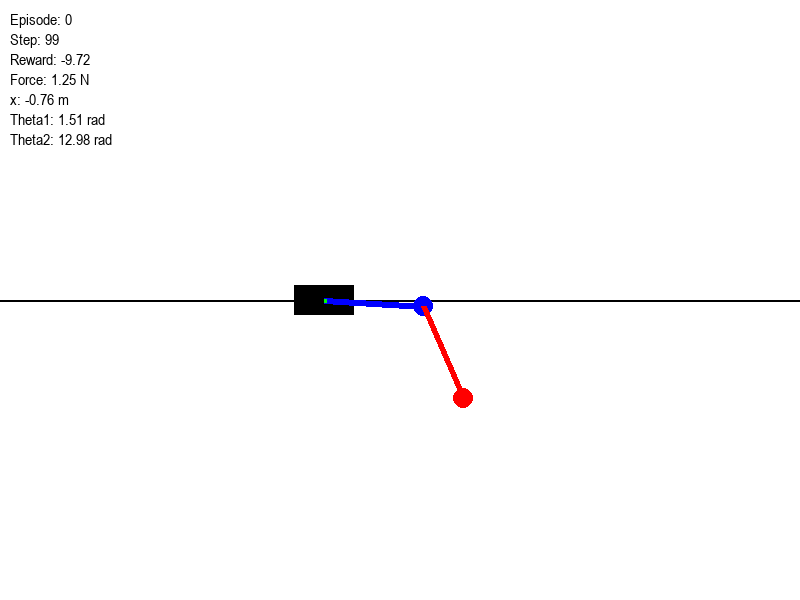
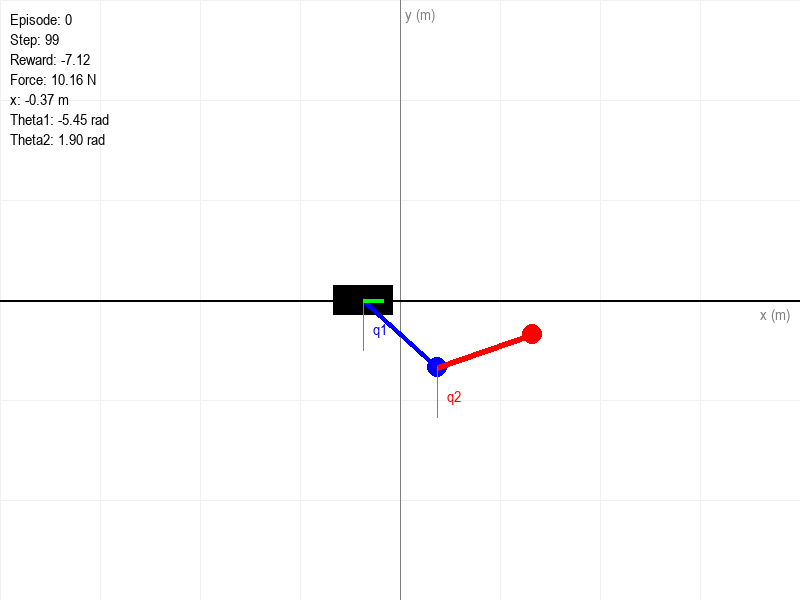
Visualizer: Add coordinate system and update screenshot

diff --git a/src/utils/visualizer.py b/src/utils/visualizer.py
@@ -52,15 +52,25 @@ class Visualizer:
         cart_x = ox + x * self.scale
         cart_y = oy
         
-        # Draw Coordinate System
+        # Draw Coordinate System (Cartesian)
         # Origin is at (ox, oy)
+        # Draw grid lines every 1 meter (scale pixels)
+        for i in range(-5, 6):
+            # Vertical lines
+            gx = int(ox + i * self.scale)
+            pygame.draw.line(self.screen, (240, 240, 240), (gx, 0), (gx, self.height), 1)
+            # Horizontal lines
+            gy = int(oy + i * self.scale)
+            pygame.draw.line(self.screen, (240, 240, 240), (0, gy), (self.width, gy), 1)
+
+        # Main Axes
         pygame.draw.line(self.screen, self.GRAY, (int(ox), 0), (int(ox), self.height), 1) # Y-axis
         pygame.draw.line(self.screen, self.GRAY, (0, int(oy)), (self.width, int(oy)), 1) # X-axis
         
         # Labels
-        x_label = self.font.render("x", True, self.GRAY)
-        y_label = self.font.render("y", True, self.GRAY)
-        self.screen.blit(x_label, (self.width - 20, int(oy) + 5))
+        x_label = self.font.render("x (m)", True, self.GRAY)
+        y_label = self.font.render("y (m)", True, self.GRAY)
+        self.screen.blit(x_label, (self.width - 40, int(oy) + 5))
         self.screen.blit(y_label, (int(ox) + 5, 5))
         
         # Draw Track
@@ -83,12 +93,26 @@ class Visualizer:
         pygame.draw.line(self.screen, self.BLUE, (int(cart_x), int(cart_y)), (int(p1_x), int(p1_y)), 6)
         pygame.draw.circle(self.screen, self.BLUE, (int(p1_x), int(p1_y)), 10)
         
+        # Visualize Theta1
+        # Vertical reference
+        pygame.draw.line(self.screen, self.GRAY, (int(cart_x), int(cart_y)), (int(cart_x), int(cart_y + 50)), 1)
+        # Arc? Pygame arc is annoying. Let's just draw a small line indicating the angle?
+        # Or just text.
+        t1_text = self.font.render(f"q1", True, self.BLUE)
+        self.screen.blit(t1_text, (int(cart_x + 10), int(cart_y + 20)))
+
         # Pendulum 2
         p2_x = p1_x + l2 * np.sin(theta2)
         p2_y = p1_y + l2 * np.cos(theta2)
         
         pygame.draw.line(self.screen, self.RED, (int(p1_x), int(p1_y)), (int(p2_x), int(p2_y)), 6)
         pygame.draw.circle(self.screen, self.RED, (int(p2_x), int(p2_y)), 10)
+
+        # Visualize Theta2
+        # Vertical reference at joint 1
+        pygame.draw.line(self.screen, self.GRAY, (int(p1_x), int(p1_y)), (int(p1_x), int(p1_y + 50)), 1)
+        t2_text = self.font.render(f"q2", True, self.RED)
+        self.screen.blit(t2_text, (int(p1_x + 10), int(p1_y + 20)))
         
         # Force Indicator
         if abs(force) > 0.1:

diff --git a/docs/training_and_learning.md b/docs/training_and_learning.md
@@ -5,10 +5,18 @@
 We model the double pendulum stabilization as a **Markov Decision Process (MDP)** defined by the tuple $(S, A, P, R, \gamma)$:
 
 *   **State Space ($S$)**: Continuous, 8-dimensional.
-    $$ s = [x, \sin\theta_1, \cos\theta_1, \sin\theta_2, \cos\theta_2, \dot{x}, \dot{\theta}_1, \dot{\theta}_2] $$
+
+    $$
+    s = [x, \sin\theta_1, \cos\theta_1, \sin\theta_2, \cos\theta_2, \dot{x}, \dot{\theta}_1, \dot{\theta}_2]
+    $$
+
     We use trigonometric encoding for angles to avoid discontinuities at $\pm \pi$.
 *   **Action Space ($A$)**: Continuous, 1-dimensional.
-    $$ a \in [-1, 1] $$
+
+    $$
+    a \in [-1, 1]
+    $$
+
     Represents the normalized force applied to the cart. The actual force is scaled by $F_{max}$.
 *   **Dynamics ($P$)**: Deterministic physics governed by the Lagrangian equations of motion (see `physics_derivation.md`).
 *   **Reward Function ($R$)**: Dense, shaped reward to guide the agent towards the unstable equilibrium.
@@ -21,7 +29,11 @@ We use **PPO-Clip**, a policy gradient algorithm that optimizes a surrogate obje
 ### 2.1 Objective Function
 The PPO objective is designed to maximize the expected return while limiting the change in the policy distribution between updates.
 
-$$ L^{CLIP}(\theta) = \hat{\mathbb{E}}_t \left[ \min(r_t(\theta)\hat{A}_t, \text{clip}(r_t(\theta), 1-\epsilon, 1+\epsilon)\hat{A}_t) \right] $$
+
+$$
+L^{CLIP}(\theta) = \hat{\mathbb{E}}_t \left[ \min(r_t(\theta)\hat{A}_t, \text{clip}(r_t(\theta), 1-\epsilon, 1+\epsilon)\hat{A}_t) \right]
+$$
+
 
 Where:
 *   $\pi_\theta(a_t|s_t)$ is the current policy.
@@ -33,7 +45,11 @@ Where:
 ### 2.2 Total Loss
 The final loss function minimized by the optimizer includes the value function error and an entropy bonus for exploration:
 
-$$ L_{total} = -L^{CLIP}(\theta) + c_1 L^{VF}(\theta) - c_2 S[\pi_\theta](s_t) $$
+
+$$
+L_{total} = -L^{CLIP}(\theta) + c_1 L^{VF}(\theta) - c_2 S[\pi_\theta](s_t)
+$$
+
 
 *   $L^{VF}(\theta) = (V_\theta(s_t) - V_t^{target})^2$: Mean Squared Error of the value predictor.
 *   $S[\pi_\theta]$: Entropy of the policy distribution. Maximizing entropy prevents premature convergence to suboptimal deterministic policies.
@@ -43,11 +59,19 @@ $$ L_{total} = -L^{CLIP}(\theta) + c_1 L^{VF}(\theta) - c_2 S[\pi_\theta](s_t) $
 
 The reward function is the critical signal that tells the agent what "success" looks like. We use a quadratic cost formulation (similar to LQR) transformed into a reward.
 
-$$ r_t = - \left( w_{\theta_1} \tilde{\theta}_1^2 + w_{\theta_2} \tilde{\theta}_2^2 + w_x x^2 + w_{\dot{q}} \|\dot{q}\|^2 \right) + C_{alive} $$
+
+$$
+r_t = - \left( w_{\theta_1} \tilde{\theta}_1^2 + w_{\theta_2} \tilde{\theta}_2^2 + w_x x^2 + w_{\dot{q}} \|\dot{q}\|^2 \right) + C_{alive}
+$$
+
 
 ### Terms:
 1.  **Angle Errors ($\tilde{\theta}_i$)**:
-    $$ \tilde{\theta}_i = \text{normalize}(\theta_i - \pi) $$
+
+    $$
+    \tilde{\theta}_i = \text{normalize}(\theta_i - \pi)
+    $$
+
     Measures the deviation from the upright position ($\pi$). We want this to be 0.
 2.  **Cart Position ($x$)**:
     Penalizes the cart for moving away from the center of the track ($x=0$). This prevents the agent from "cheating" by running off to infinity to balance the pendulum.

diff --git a/README.md b/README.md
@@ -19,16 +19,28 @@ We use **Proximal Policy Optimization (PPO)**, a state-of-the-art Deep Reinforce
 The system consists of a cart of mass $M$ moving on a 1D track, with two links of mass $m_1, m_2$ and length $l_1, l_2$.
 
 **Generalized Coordinates**:
-$$ q = [x, \theta_1, \theta_2]^T $$
+
+$$
+q = [x, \theta_1, \theta_2]^T
+$$
+
 where $x$ is the cart position, and $\theta_i$ are the angles from the vertical down position.
 
 **Lagrangian Mechanics**:
 The Equations of Motion (EOM) are derived from the Euler-Lagrange equation:
-$$ \frac{d}{dt} \left( \frac{\partial \mathcal{L}}{\partial \dot{q}} \right) - \frac{\partial \mathcal{L}}{\partial q} = \tau $$
+
+$$
+\frac{d}{dt} \left( \frac{\partial \mathcal{L}}{\partial \dot{q}} \right) - \frac{\partial \mathcal{L}}{\partial q} = \tau
+$$
+
 where $\mathcal{L} = T - V$.
 
 This yields the standard robotic manipulator form:
-$$ M(q)\ddot{q} + C(q, \dot{q})\dot{q} + G(q) = B u $$
+
+$$
+M(q)\ddot{q} + C(q, \dot{q})\dot{q} + G(q) = B u
+$$
+
 
 *   **Inertia Matrix** $M(q)$: Symmetric, positive-definite matrix encoding the mass distribution and coupling between links.
 *   **Coriolis & Centrifugal Matrix** $C(q, \dot{q})$: Contains terms like $\dot{\theta}_i^2$ and $\dot{\theta}_1 \dot{\theta}_2$.
@@ -39,15 +51,27 @@ For the full derivation, see [docs/physics_derivation.md](docs/physics_derivatio
 
 ### 3.2 State Space
 The RL agent observes the full state vector:
-$$ \mathbf{s} = [x, \sin\theta_1, \cos\theta_1, \sin\theta_2, \cos\theta_2, \dot{x}, \dot{\theta}_1, \dot{\theta}_2] $$
+
+$$
+\mathbf{s} = [x, \sin\theta_1, \cos\theta_1, \sin\theta_2, \cos\theta_2, \dot{x}, \dot{\theta}_1, \dot{\theta}_2]
+$$
+
 *Note: We use $\sin/\cos$ of angles to avoid discontinuity at $\pm \pi$.*
 
 ### 3.3 Reward Function
 The objective is to maximize the cumulative reward:
-$$ J(\pi) = \mathbb{E}_{\tau \sim \pi} \left[ \sum_{t=0}^T \gamma^t r(s_t, a_t) \right] $$
+
+$$
+J(\pi) = \mathbb{E}_{\tau \sim \pi} \left[ \sum_{t=0}^T \gamma^t r(s_t, a_t) \right]
+$$
+
 
 The reward function $r(s, a)$ is designed to penalize deviation from the upright equilibrium:
-$$ r = - (w_1 \|\theta_1 - \pi\|^2 + w_2 \|\theta_2 - \pi\|^2 + w_3 x^2 + w_4 \|\dot{q}\|^2) + C_{alive} $$
+
+$$
+r = - (w_1 \|\theta_1 - \pi\|^2 + w_2 \|\theta_2 - \pi\|^2 + w_3 x^2 + w_4 \|\dot{q}\|^2) + C_{alive}
+$$
+
 
 ## 4. Project Structure & Separation
 The project is strictly separated into **Simulation (Physics)** and **Agent (Brain)**:
